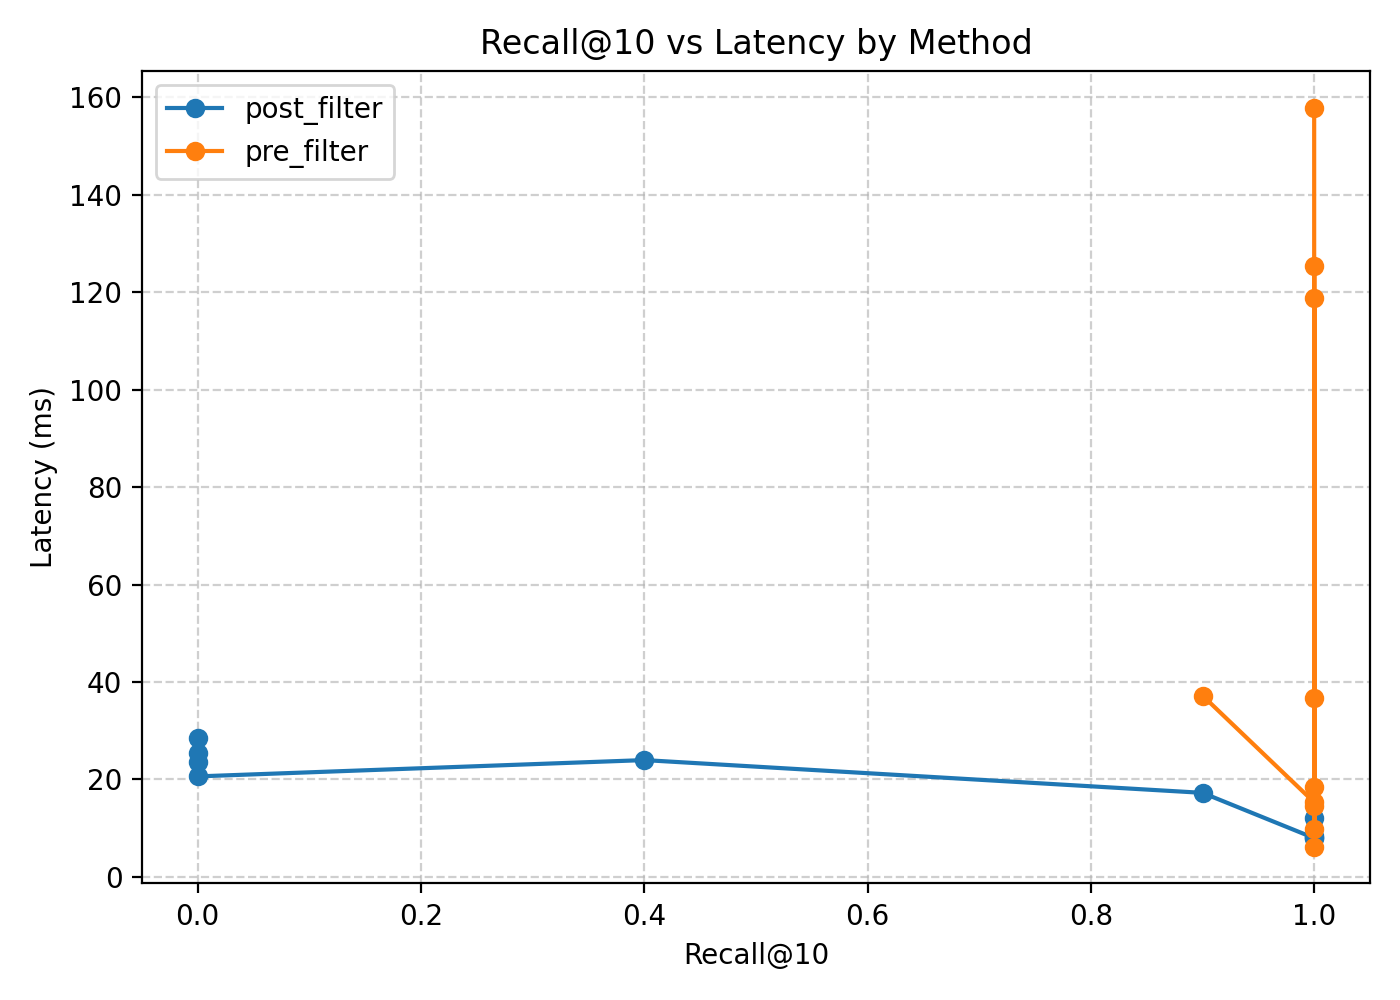
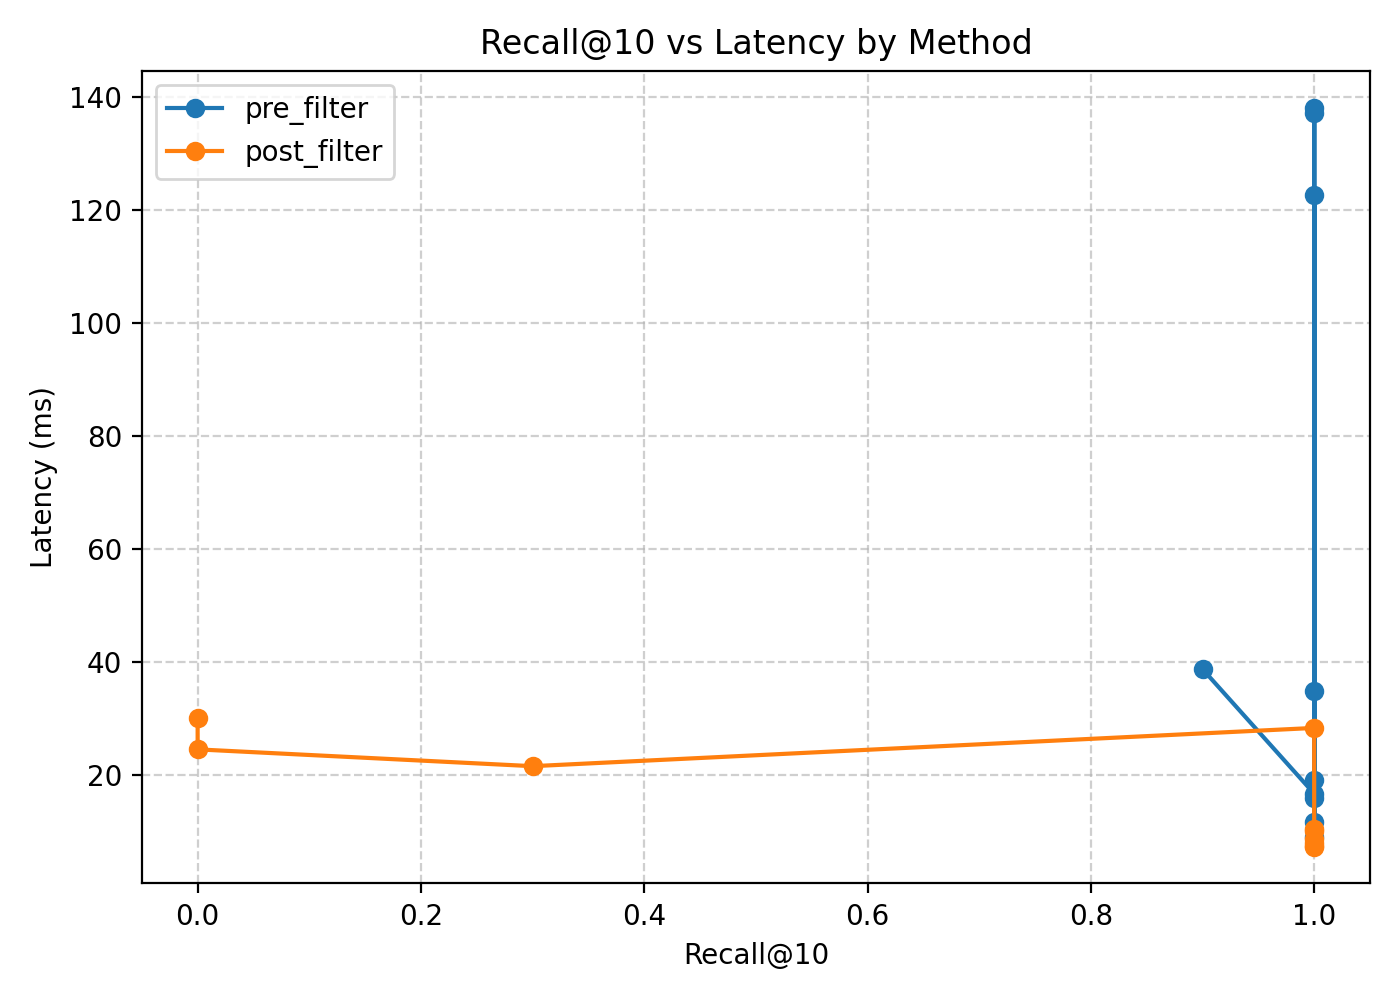
on the fly embedding for query vector

diff --git a/src/harness/run.py b/src/harness/run.py
@@ -7,6 +7,8 @@ import json
 import sys
 import numpy as np
 import pandas as pd
+from sentence_transformers import SentenceTransformer
+import os
 
 # ---------------------------------------------------------------------
 # Project imports
@@ -120,6 +122,24 @@ def main() -> None:
     validate_K(args.K, len(vectors))
     backend = get_backend(args.backend, vectors, metadata, args.version)
 
+
+    # --- Load vectors meta ---
+    with open(os.path.join(artifact_dir, "vectors.meta.json")) as f:
+        meta = json.load(f)
+    model_name = meta["model"]
+
+    # --- Initialize on-the-fly embedder ---
+    from sentence_transformers import SentenceTransformer
+    embedder = SentenceTransformer(model_name)
+
+    # --- Load queries and embed on the fly ---
+    queries_df = pd.read_parquet(os.path.join(artifact_dir, "queries.parquet"))
+    qtexts = queries_df["qtext"].tolist()
+    print(f"Embedding {len(qtexts)} queries using {model_name}...")
+    qvecs = embedder.encode(qtexts, convert_to_numpy=True, normalize_embeddings=True).astype(np.float32)
+    assert qvecs.shape[1] == meta["D"], f"Query dim {qvecs.shape[1]} != vector dim {meta['D']}"
+    print("On-the-fly embedding completed.")
+
     # -----------------------------------------------------------------
     # Prepare output folder per §9 Logging Contract
     # -----------------------------------------------------------------
@@ -133,9 +153,10 @@ def main() -> None:
     # Run harness
     # -----------------------------------------------------------------
     rows = qdf.head(args.max_queries)
-    for _, row in rows.iterrows():
+    for i, row in rows.iterrows():
         qid = int(row["qid"])
-        qvec = pick_vector_from_row(row) or vectors[qid].astype(np.float32)
+        # qvec = pick_vector_from_row(row) or vectors[qid].astype(np.float32)
+        qvec = qvecs[i]
         ensure_unit_l2(qvec)
 
         # Strict filter parsing & schema validation
